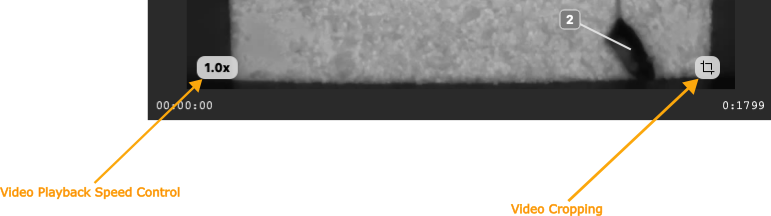
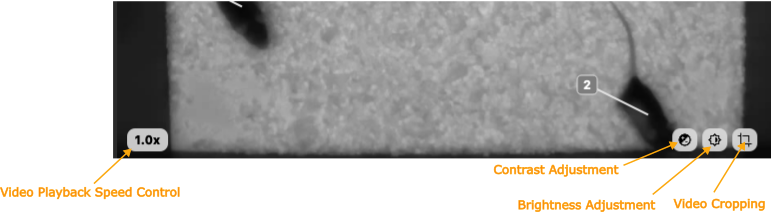
update the video guide with info about brightness and contrast adjustment controls

diff --git a/src/jabs/resources/docs/user_guide/user_guide.md b/src/jabs/resources/docs/user_guide/user_guide.md
@@ -238,6 +238,14 @@ Mousing over the video player will display a control overlay with the following 
   the region of interest. The video will be cropped to the selection, and scaled to fill the available 
   player area. If the video is currently cropped, the cropping control will be replaced with a
   "Reset Cropping" control, which will reset the cropping to the original video size.
+- **Brightness Adjustment:** Allows the user to adjust the brightness of the video. Clicking this
+  control will open a slider that can be used to adjust the brightness.
+- **Contrast Adjustment:** Allows the user to adjust the contrast of the video. Clicking this
+  control will open a slider that can be used to adjust the contrast.
+
+Clicking the Brightness or Contrast controls will reset the brightness or contrast to the default value
+before displaying the slider control. Clicking the video or moving the mouse off the video frame
+will dismiss the slider control.  
 
 ### Menu
 
